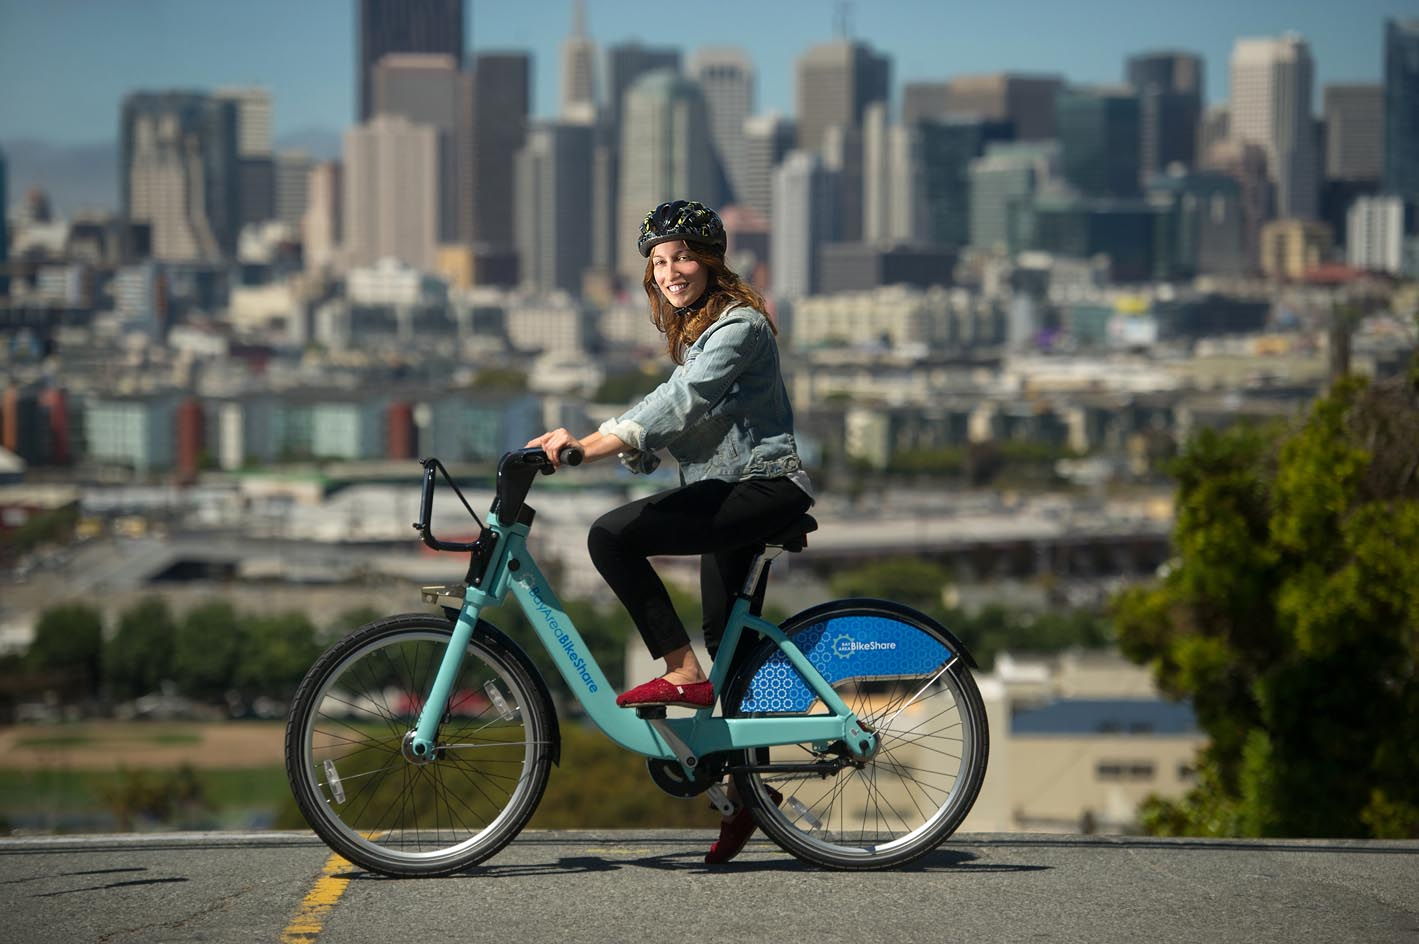
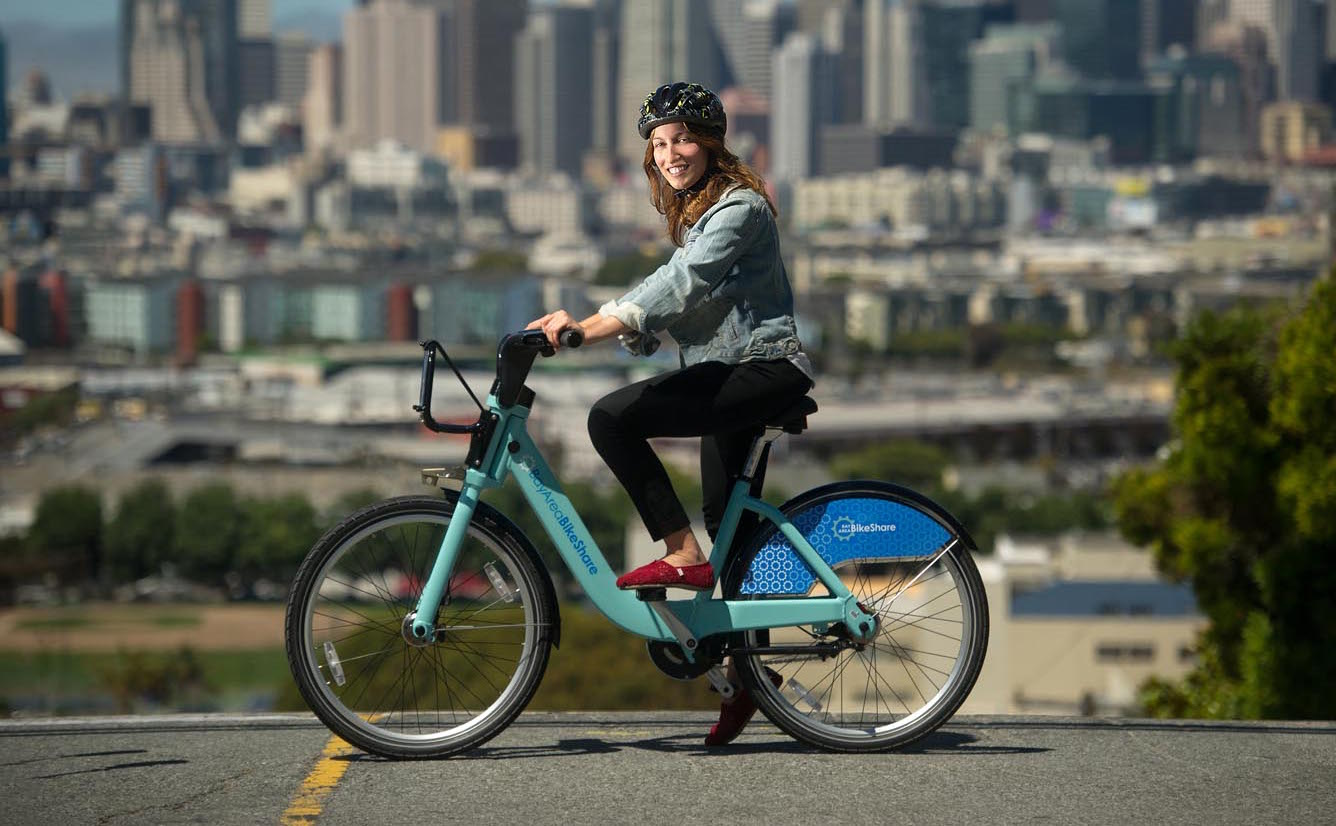
refactoring layout

diff --git a/client/public/css/style.css b/client/public/css/style.css
@@ -1,47 +1,50 @@
 html, body {
-    width: 100%;
     height: 100%;
+	width: 100%;
     background-color: #EEEEEE;
-    overflow: hidden;
+    /*overflow: hidden;*/
 }
 
-/*Landing Page and Left Bar */
-.landing-left {
-	height:100%;
-	width: 17.5%;
-	float: left;
+/*Landing Page and Header */
+/*.landing-left {
+	height:100px;
+	width: 100%;
 	background-color: rgba(130, 201, 189, 0.78);
-	min-width: 252px;
-	max-width: 252px;
-	min-height: 100%;
-	max-height: 100%;
 } 
 
 .landing-left-top {
-	height:30%;
-	width: 100%;
+	height:100px;
+	width: 230px;
 	background-color: rgba(70, 75, 79, 0.70);
-	min-width: 252px;
-	min-height: 252px
+}*/
+
+.bg-img {
+	min-height: 100%;
+	min-width: 944px;
+
+	width:100%;
+	height:auto;
+
+	position: fixed;
+	top: 0;
+	left: 0;
+}
+@media screen and (max-width: 944px) { 
+  .bg-img {
+    left: 50%;
+    margin-left: 472px;   /* 50% */
+  }
 }
 
-.background-img {
-	height: 100%;
-	width: 100%;
-	background-image: url('../bikeShare.jpg');
-	background-size: cover;
-	float: left;
 }
 
-.content {
-	height: 100%;
-	width: 82.5%;
-	float: left;
+/*header {
+	display: flex;
 }
 
 .logo {
 	margin-left: 5%;
-	margin-top: 30%;
+	margin-top: 15px;
 }
 
 .landing-text {
@@ -71,14 +74,13 @@ html, body {
 	margin-left: 12px;
 }
 
-
 .slider-text {
 	color: white;
 	font-size: 15px;
 	font-family: sans-serif;
 	margin-left: 12px;
 	margin-right: 5px;
-}
+}*/
 
 
 /*Chord Template*/

diff --git a/server/index.html b/server/index.html
@@ -39,15 +39,18 @@
 
 </head>
 <body>	
-	<div class="landing-left" ng-controller="MainController">
-		<div class="landing-left-top">
-			<img class="logo" src="./public/BABS_logo_white_green_cog.png">
+<!-- 	<header>
+		<div class="landing-left" ng-controller="MainController">
+			<div class="landing-left-top"> -->
+				<!-- <img class="logo" src="./public/BABS_logo_white_green_cog.png"> -->
+<!-- 			</div>
+			<p class='ride-time'>{{time}}</p>
+			<p class='slider-text' ng-show="!show">{{sliderText}}</p>
+			<p class="landing-text" ng-show="show">Over half a million rides in two years...<p>
+			<button class="pure-button" id="landing-button" ng-show="show" ng-click="hideLanding()">See Where They Went!</button>
 		</div>
-		<p class='ride-time'>{{time}}</p>
-		<p class='slider-text' ng-show="!show">{{sliderText}}</p>
-		<p class="landing-text" ng-show="show">Over half a million rides in two years...<p>
-		<button class="pure-button" id="landing-button" ng-show="show" ng-click="hideLanding()">See Where They Went!</button>
-	</div>
+	</header> -->
+		
 	<div class="content" ng-view></div>
 </body>
 </html>

diff --git a/client/mainTemplate.html b/client/mainTemplate.html
@@ -1,1 +1,1 @@
-<div class="background-img"></div>
+<img class='bg-img' src="./public/bikeShare.jpg">
